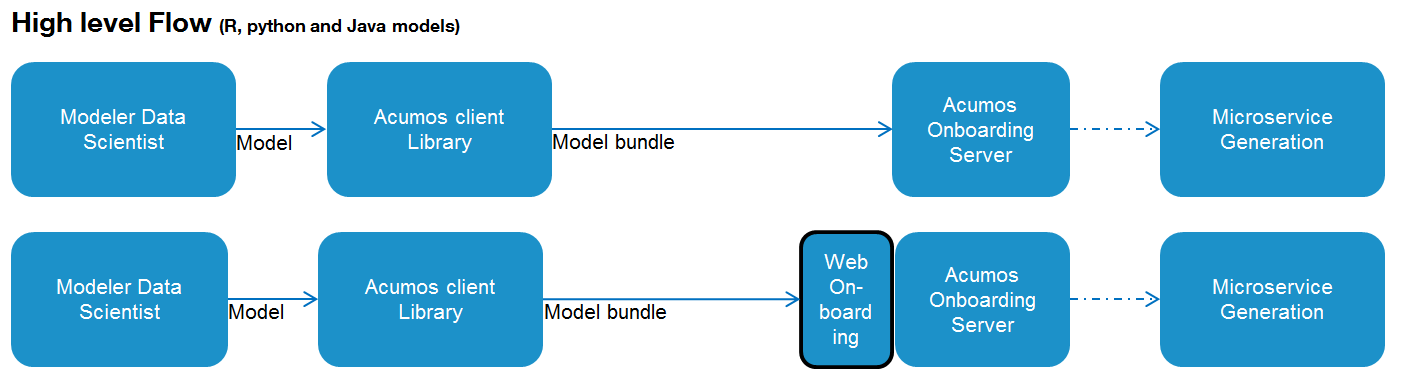
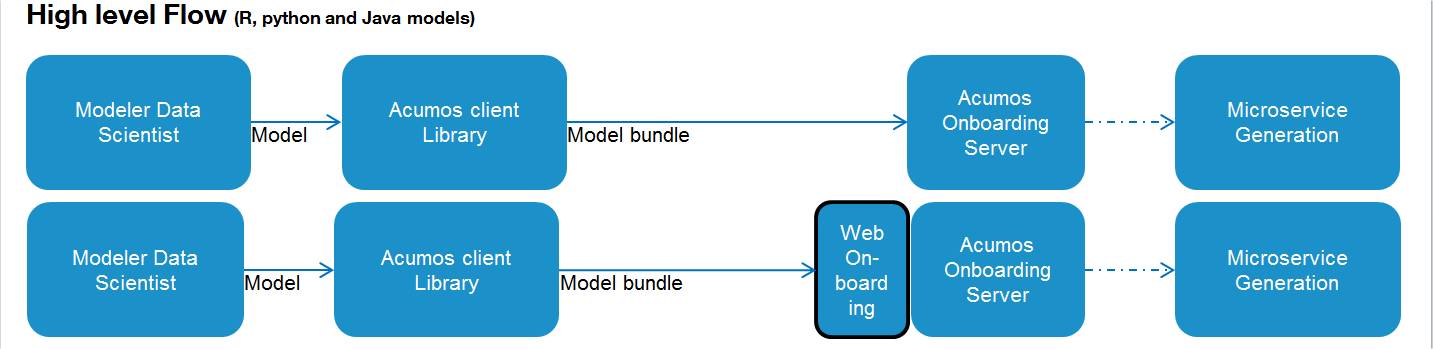
add arch diagramm in dev guide
Issue-Id: ACUMOS-2437

diff --git a/docs/developer-guide.rst b/docs/developer-guide.rst
@@ -93,7 +93,7 @@ of on-boarding.
 |image1ter|
 
 For model Dockerized and store in repo outside Acumos (like for xample ockr hub) you can save the model
- URI in Acumos. You can also stored the docker image of your model in Acumos
+URI in Acumos. You can also stored the docker image of your model in Acumos
 
 
 
@@ -119,11 +119,20 @@ then pushes the model to nexus.
 
 |image0|
 
+
+Modeler/Data scientist can also create models in the languague of their choice then dockerized their
+models themselves and onboard these dockerized models or dockerized model URI. Of course for these kinds
+of models the microservice generation process is not triggered. Below is the low level dsign for these
+models.
+
+|image0bis|
+
 Whatever the kinds of models :
 
 - Modeler can upload a licence file associated to their model during Web or CLI onboarding.
 - New solution is created in common database for a new model.
-- Existing solution is updated with, a new revision. Revision is updated with artefact details and those artefacts are uploaded to nexus maven repository.
+- Existing solution is updated with, a new revision. Revision is updated with artefact details and
+those artefacts are uploaded to nexus maven repository.
 
 **6: Onboarding Use Case**
 --------------------------
@@ -340,10 +349,10 @@ Request to Onboarding Onboarding will use the Header Info to get the Username + 
    :height: 2.51389in
 .. |image1bis| image:: ./media/HighLevelFlow1bis.png
    :width: 7.26806in
-   :height: 2.51389in
+   :height: 1.2in
 .. |image1ter| image:: ./media/HighLevelFlow1ter.png
    :width: 7.26806in
-   :height: 2.51389in
+   :height: 1.2in
 .. |image2| image:: ./media/LowLevelDesign.png
    :width: 6.26806in
    :height: 2.43333in
@@ -357,4 +366,5 @@ Request to Onboarding Onboarding will use the Header Info to get the Username + 
    :width: 3.90625in
    :height: 4.94792in
 .. |image0| image:: ./media/Architecture_Diagram.png
+.. |image0bis| image:: ./media/ArchitectureDiagram2.png
 
